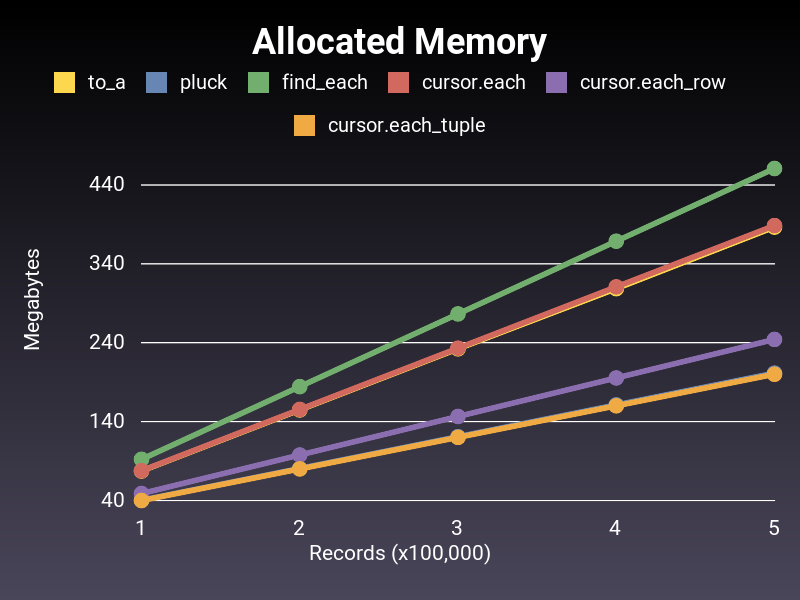
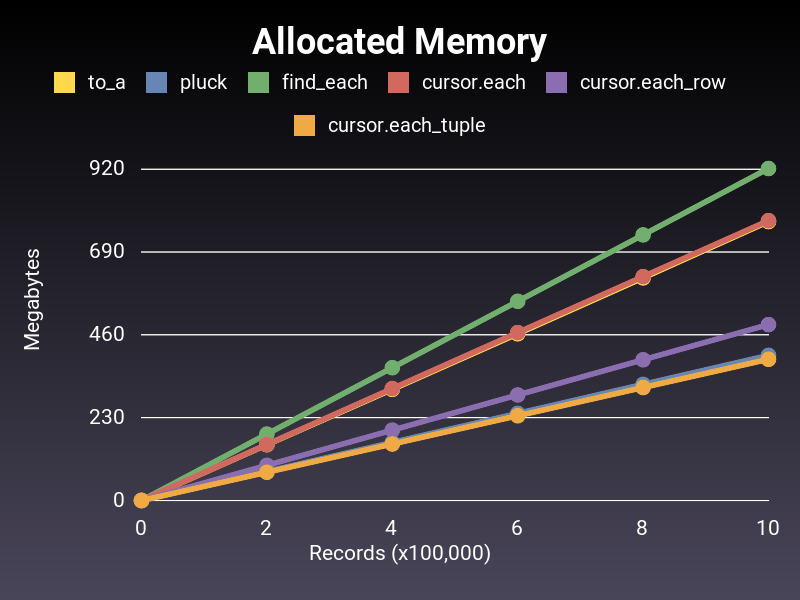
Add object allocations

diff --git a/benchmark.rb b/benchmark.rb
@@ -8,10 +8,11 @@ Database.create
 Database.connect
 Database.migrate
 
-COUNTS = (1..5).map { _1 * 100_000 }
-LABELS = (1..5).to_h { [_1 - 1, _1] }
+COUNTS = (1..5).map { _1 * 200_000 }
+LABELS = (1..5).to_h { [_1 - 1, _1 * 2] }
 TIME = Hash.new { |h, k| h[k] = [] }
 MEMORY = Hash.new { |h, k| h[k] = [] }
+OBJECTS = Hash.new { |h, k| h[k] = [] }
 
 def seed(count)
   Widget.delete_all
@@ -30,10 +31,11 @@ def measure(name, &block)
     TIME[name] << Benchmark.realtime(&block)
   end
 
+  OBJECTS[name] << memory.total_allocated
   MEMORY[name] << to_megabytes(memory.total_allocated_memsize)
 end
 
-def chart(data, name:, unit:, filename:)
+def chart(data:, name:, unit:, filename:)
   chart = Gruff::Line.new
   chart.labels = LABELS
   chart.title = name
@@ -83,5 +85,21 @@ COUNTS.each do |count|
 end
 
 FileUtils.mkdir_p "assets"
-chart TIME, name: "Time", unit: "Seconds", filename: "assets/time.png"
-chart MEMORY, name: "Allocated Memory", unit: "Megabytes", filename: "assets/memory.png"
+chart(
+  data: TIME,
+  name: "Time",
+  unit: "Seconds",
+  filename: "assets/time.png"
+)
+chart(
+  data: MEMORY,
+  name: "Allocated Memory",
+  unit: "Megabytes",
+  filename: "assets/memory.png"
+)
+chart(
+  data: OBJECTS,
+  name: "Allocated Objects",
+  unit: "Objects",
+  filename: "assets/objects.png"
+)
